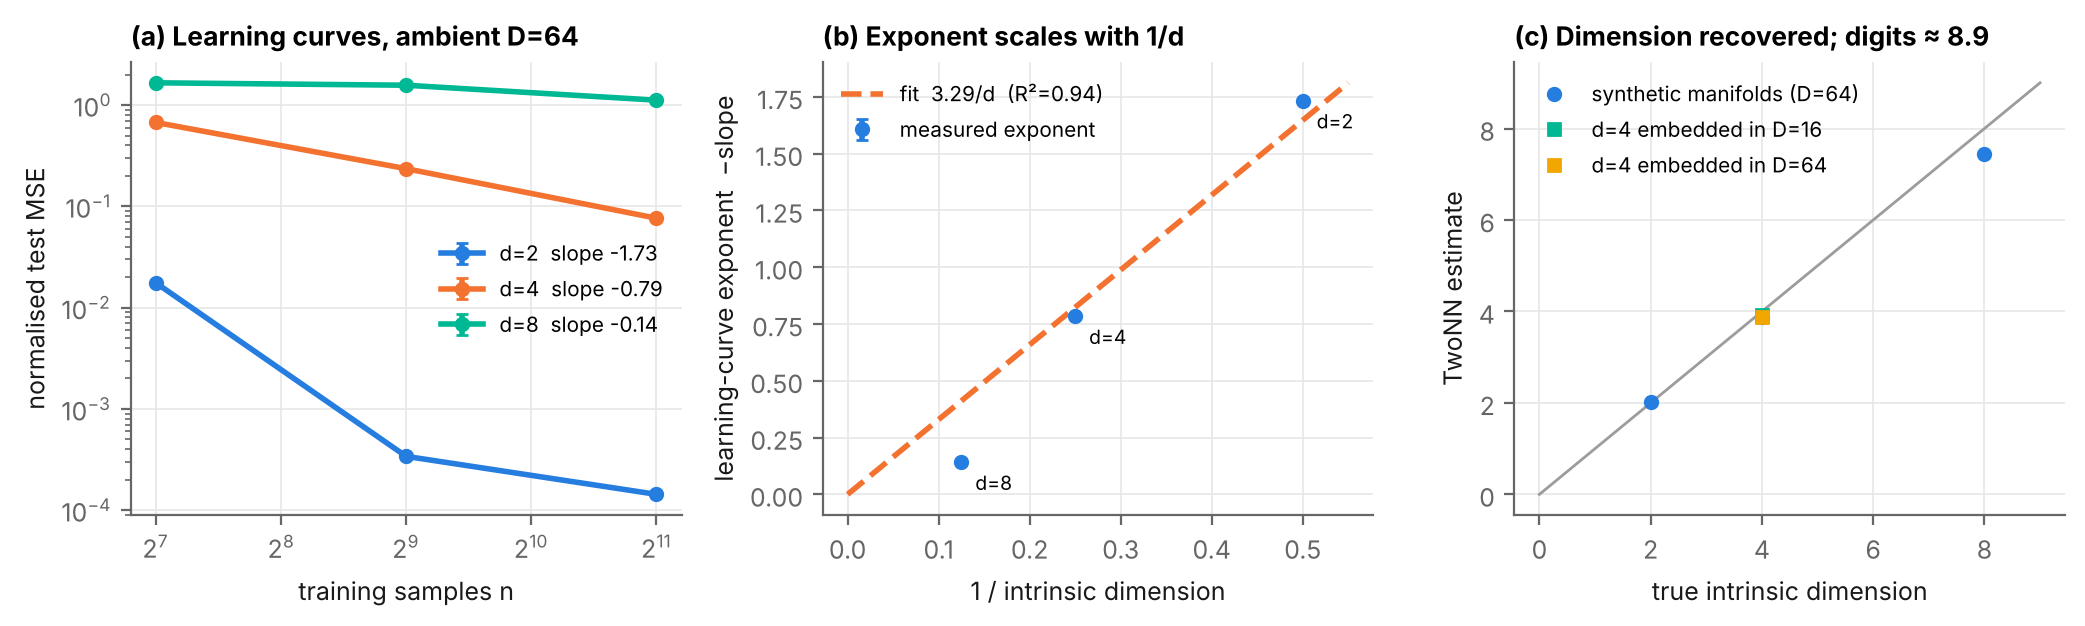
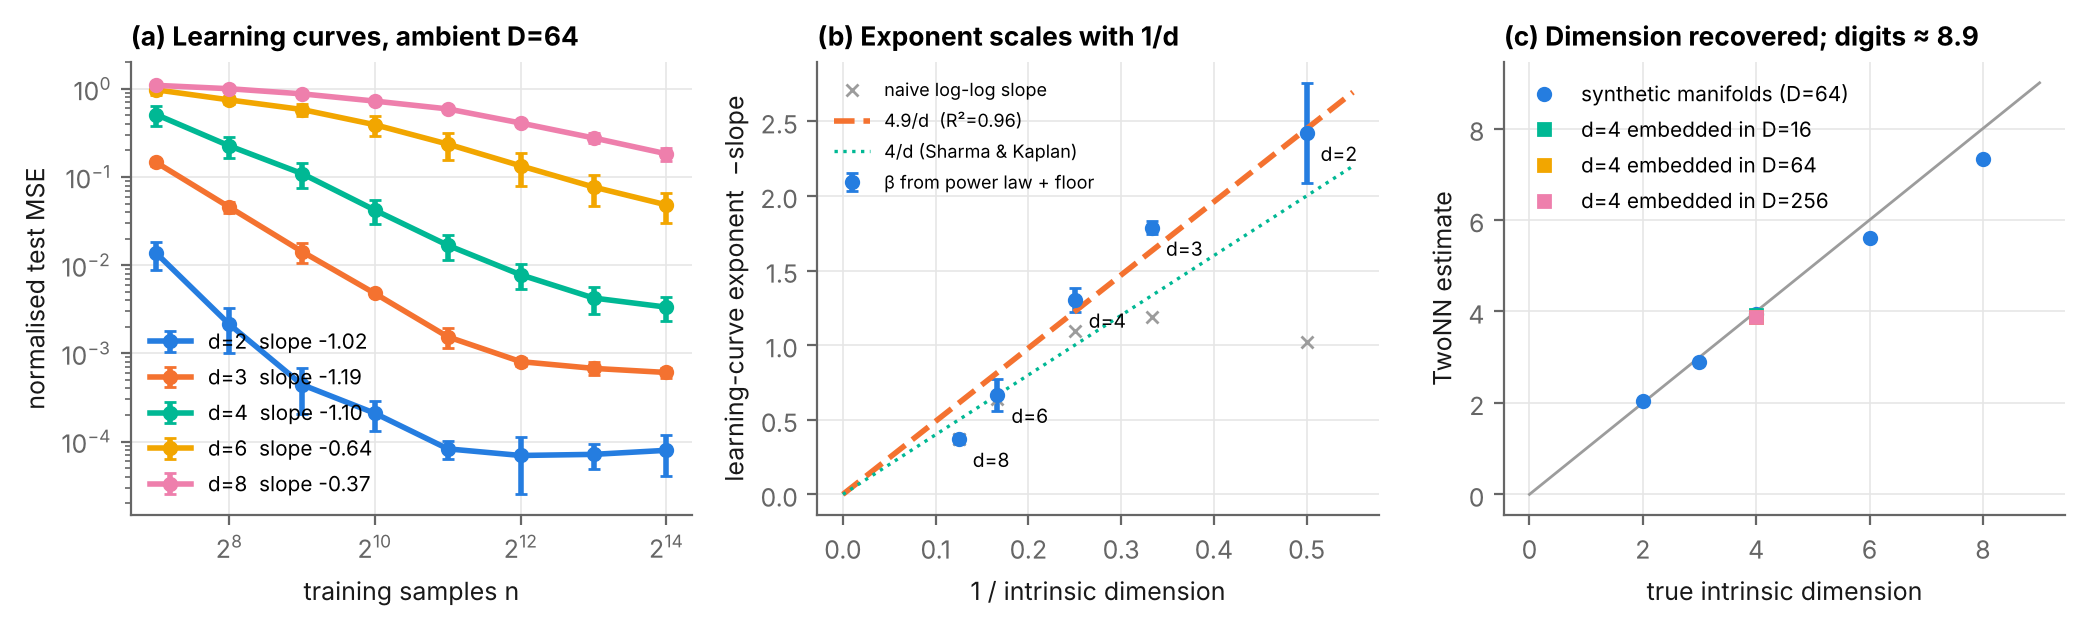
E2: fit power law plus floor for learning-curve exponents
Claude-Session: https://claude.ai/code/session_015SvxnLvQoELHmC9CydURMK

diff --git a/world-understanding/wu/plots.py b/world-understanding/wu/plots.py
@@ -138,6 +138,32 @@ def fig_e1():
 
 
 # ----------------------------------------------------------------------------- E2
+def floor_fit(ns, e):
+    """Fit e(n) = a n^-beta + f (power law plus an optimisation/noise floor) in log space.
+    Returns beta."""
+    from scipy.optimize import curve_fit
+    ns, e = np.asarray(ns, float), np.asarray(e, float)
+    f = lambda n, la, b, lf: np.log(np.exp(la) * n ** (-b) + np.exp(lf))
+    p, _ = curve_fit(f, ns, np.log(e), p0=[np.log(e[0] * 128 ** 0.5), 1.0, np.log(e.min() / 2)], maxfev=20000)
+    return float(p[1])
+
+
+def e2_analysis(R):
+    """Exponent per d from a power-law-plus-floor fit (per seed), and the c/d fit."""
+    out = {}
+    for d in R["dims"]:
+        E = np.asarray(R["err"][str(d)])
+        b = [floor_fit(R["ns"], E[:, j]) for j in range(E.shape[1])]
+        out[d] = dict(beta=float(np.mean(b)), beta_sd=float(np.std(b)), beta_seeds=b,
+                      global_=-R["fits"][str(d)]["slope"])
+    ds = list(R["dims"])
+    inv = np.array([1 / d for d in ds])
+    sl = np.array([out[d]["beta"] for d in ds])
+    c = float(inv @ sl / (inv @ inv))
+    r2 = float(1 - ((sl - c * inv) ** 2).sum() / ((sl - sl.mean()) ** 2).sum())
+    return out, ds, c, r2
+
+
 def fig_e2():
     R = load_json("e2_manifold" + SFX)
     fig, ax = plt.subplots(1, 3, figsize=(10.5, 3.2))
@@ -145,7 +171,7 @@ def fig_e2():
     for i, d in enumerate(R["dims"]):
         e = np.asarray(R["err"][str(d)])
         a.errorbar(R["ns"], e.mean(1), yerr=e.std(1), color=C[i], marker="o", capsize=2,
-                   label=f"d={d}  slope {R['fits'][str(d)]['slope']:.2f}")
+                   label=f"d={d}")
     a.set_xscale("log", base=2)
     a.set_yscale("log")
     a.set_xlabel("training samples n")
@@ -153,20 +179,21 @@ def fig_e2():
     a.set_title(f"(a) Learning curves, ambient D={R['D']}")
     a.legend()
     a = ax[1]
-    dims = np.array(R["dims"], float)
-    sl = np.array([-R["fits"][str(d)]["slope"] for d in R["dims"]])
-    ci = np.array([R["fits"][str(d)]["ci"] for d in R["dims"]])
-    a.errorbar(1 / dims, sl, yerr=[sl + ci[:, 1], -ci[:, 0] - sl], fmt="o", color=C[0], capsize=2,
-               label="measured exponent")
+    an, ds, c, r2 = e2_analysis(R)
+    dims = np.array(ds, float)
+    sl = np.array([an[d]["beta"] for d in ds])
+    sd = np.array([an[d]["beta_sd"] for d in ds])
+    a.errorbar(1 / dims, sl, yerr=sd, fmt="o", color=C[0], capsize=2, label="β from power law + floor")
+    a.plot(1 / dims, [an[d]["global_"] for d in ds], "x", color=GRAY, label="naive log-log slope")
     xx = np.linspace(0, 0.55, 50)
-    a.plot(xx, R["slope_vs_invd"]["c"] * xx, color=C[1], ls="--",
-           label=f"fit  {R['slope_vs_invd']['c']:.2f}/d  (R²={R['slope_vs_invd']['r2']:.2f})")
+    a.plot(xx, c * xx, color=C[1], ls="--", label=f"{c:.1f}/d  (R²={r2:.2f})")
+    a.plot(xx, 4 * xx, color=C[2], ls=":", lw=1.2, label="4/d (Sharma & Kaplan)")
     for d, s_ in zip(dims, sl):
         a.annotate(f"d={int(d)}", (1 / d, s_), textcoords="offset points", xytext=(5, -10), fontsize=7)
     a.set_xlabel("1 / intrinsic dimension")
     a.set_ylabel("learning-curve exponent  −slope")
     a.set_title("(b) Exponent scales with 1/d")
-    a.legend(loc="upper left")
+    a.legend(loc="upper left", fontsize=6.5)
     a = ax[2]
     est = [np.mean(R["twonn"][str(d)]) for d in R["dims"]]
     a.plot([0, 9], [0, 9], color=GRAY, lw=1)
